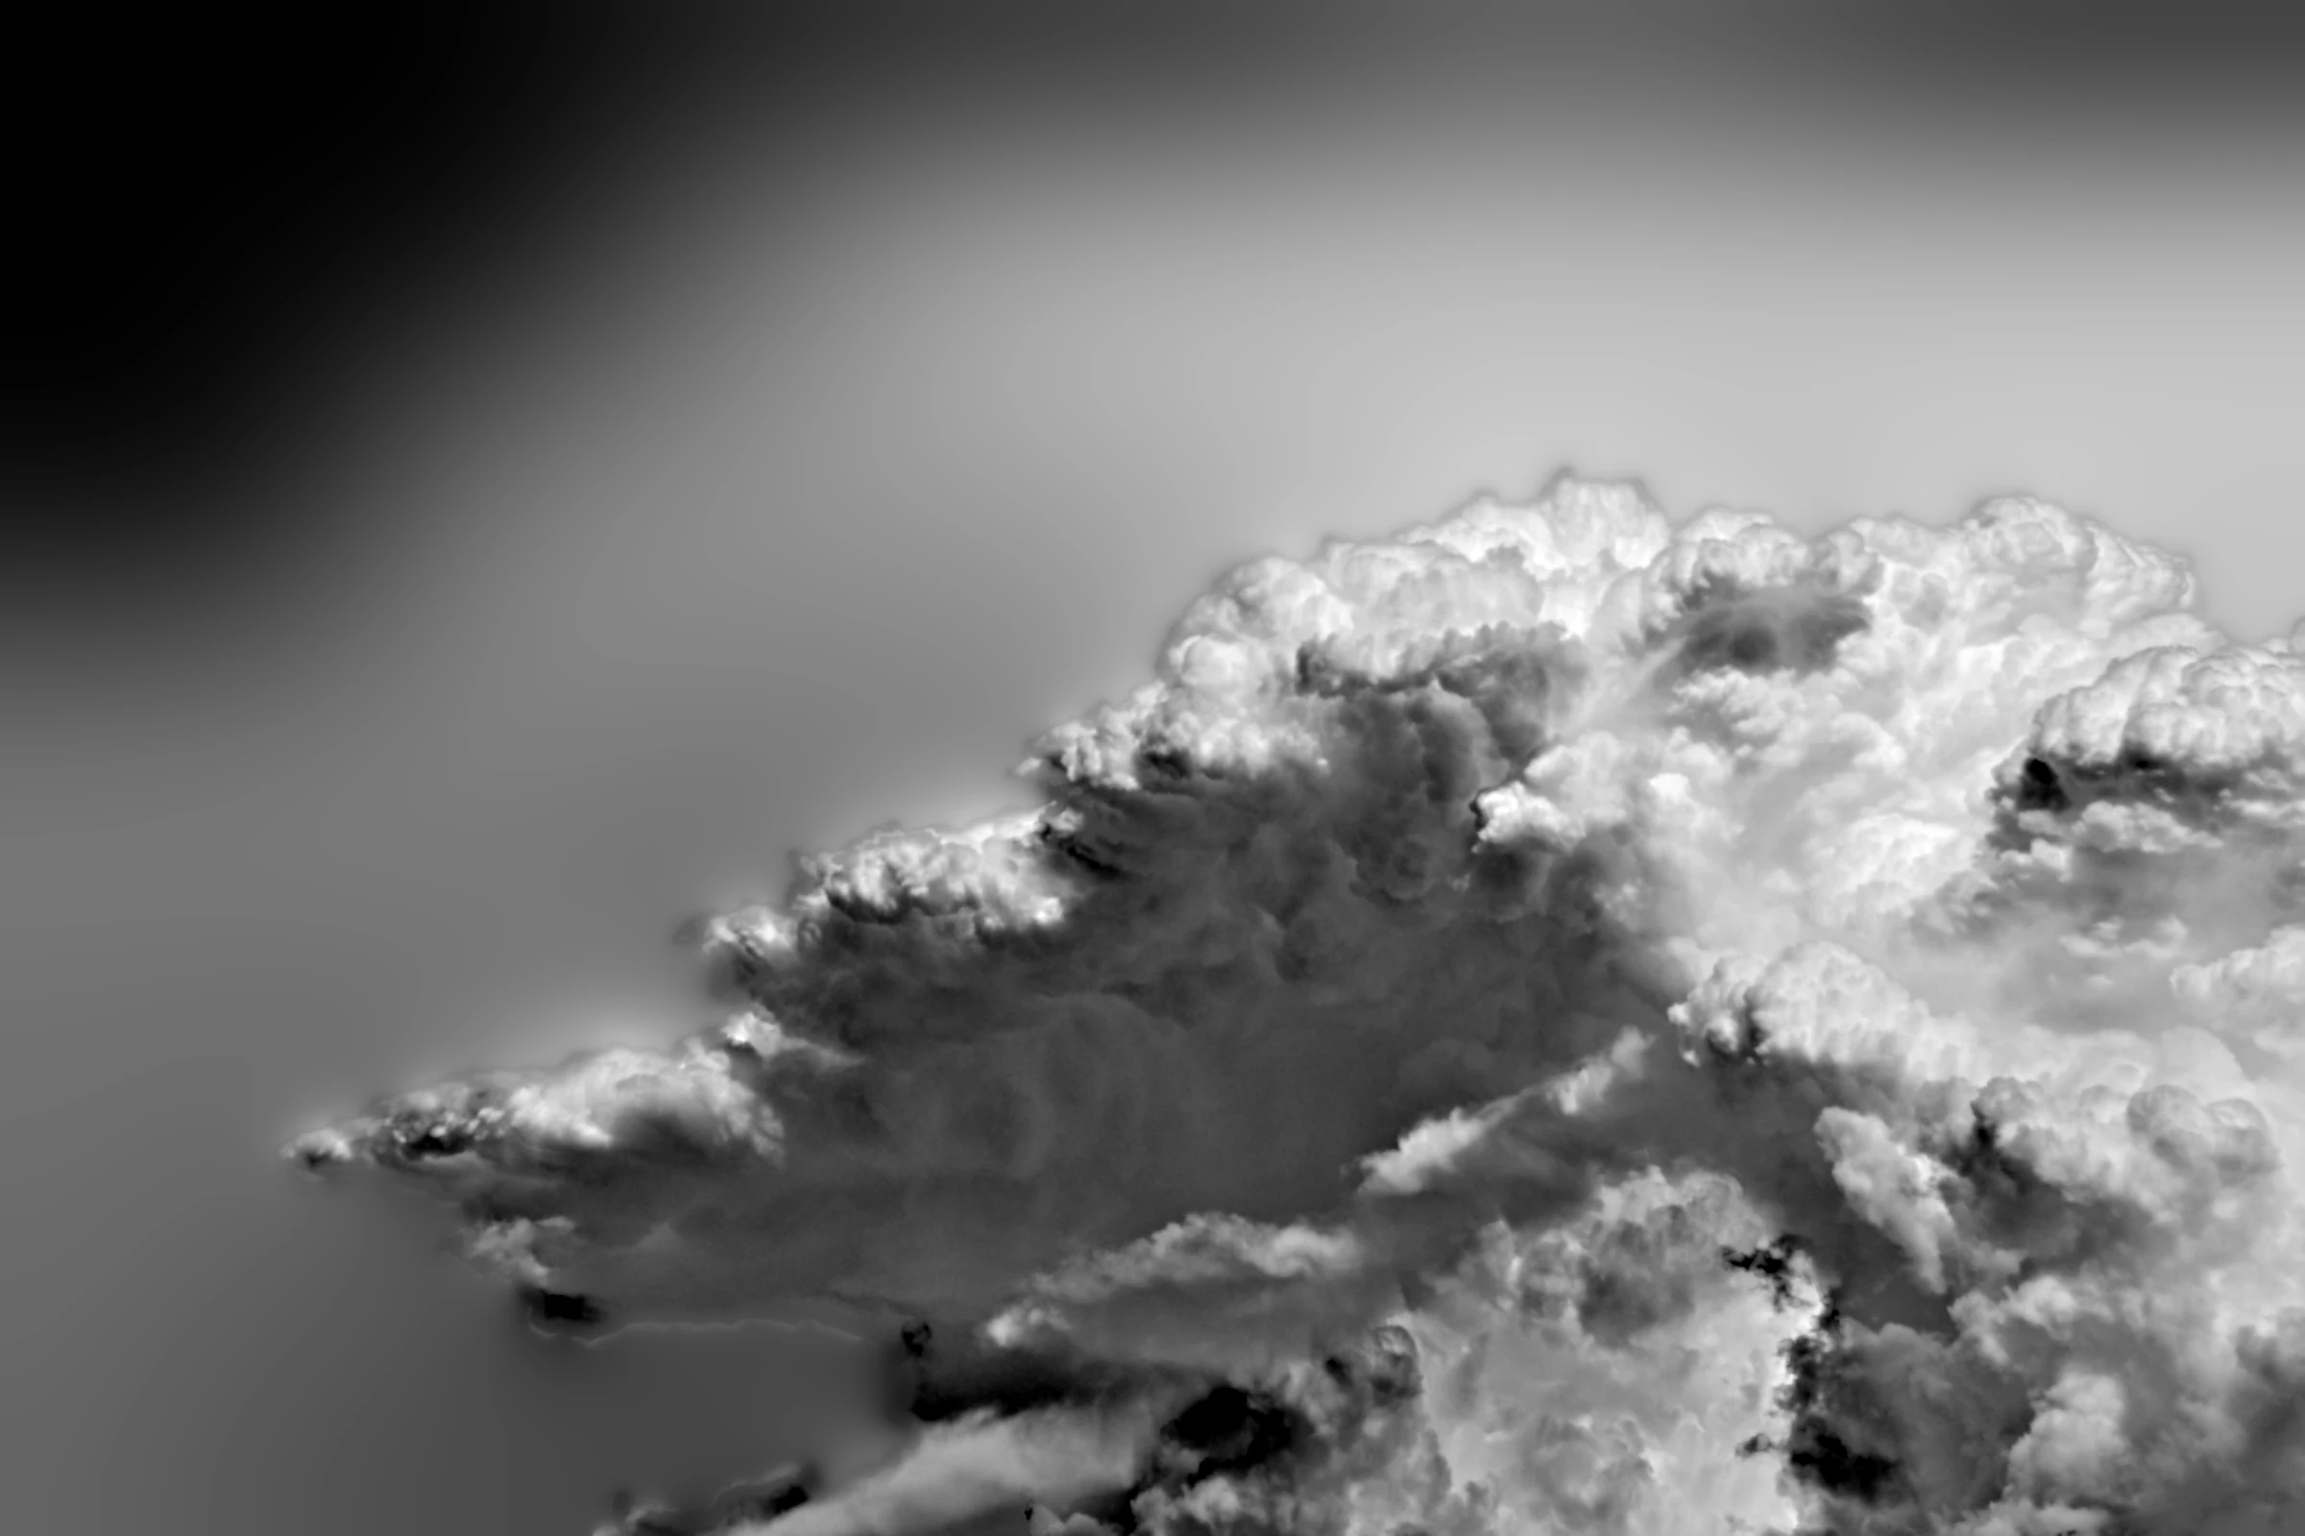
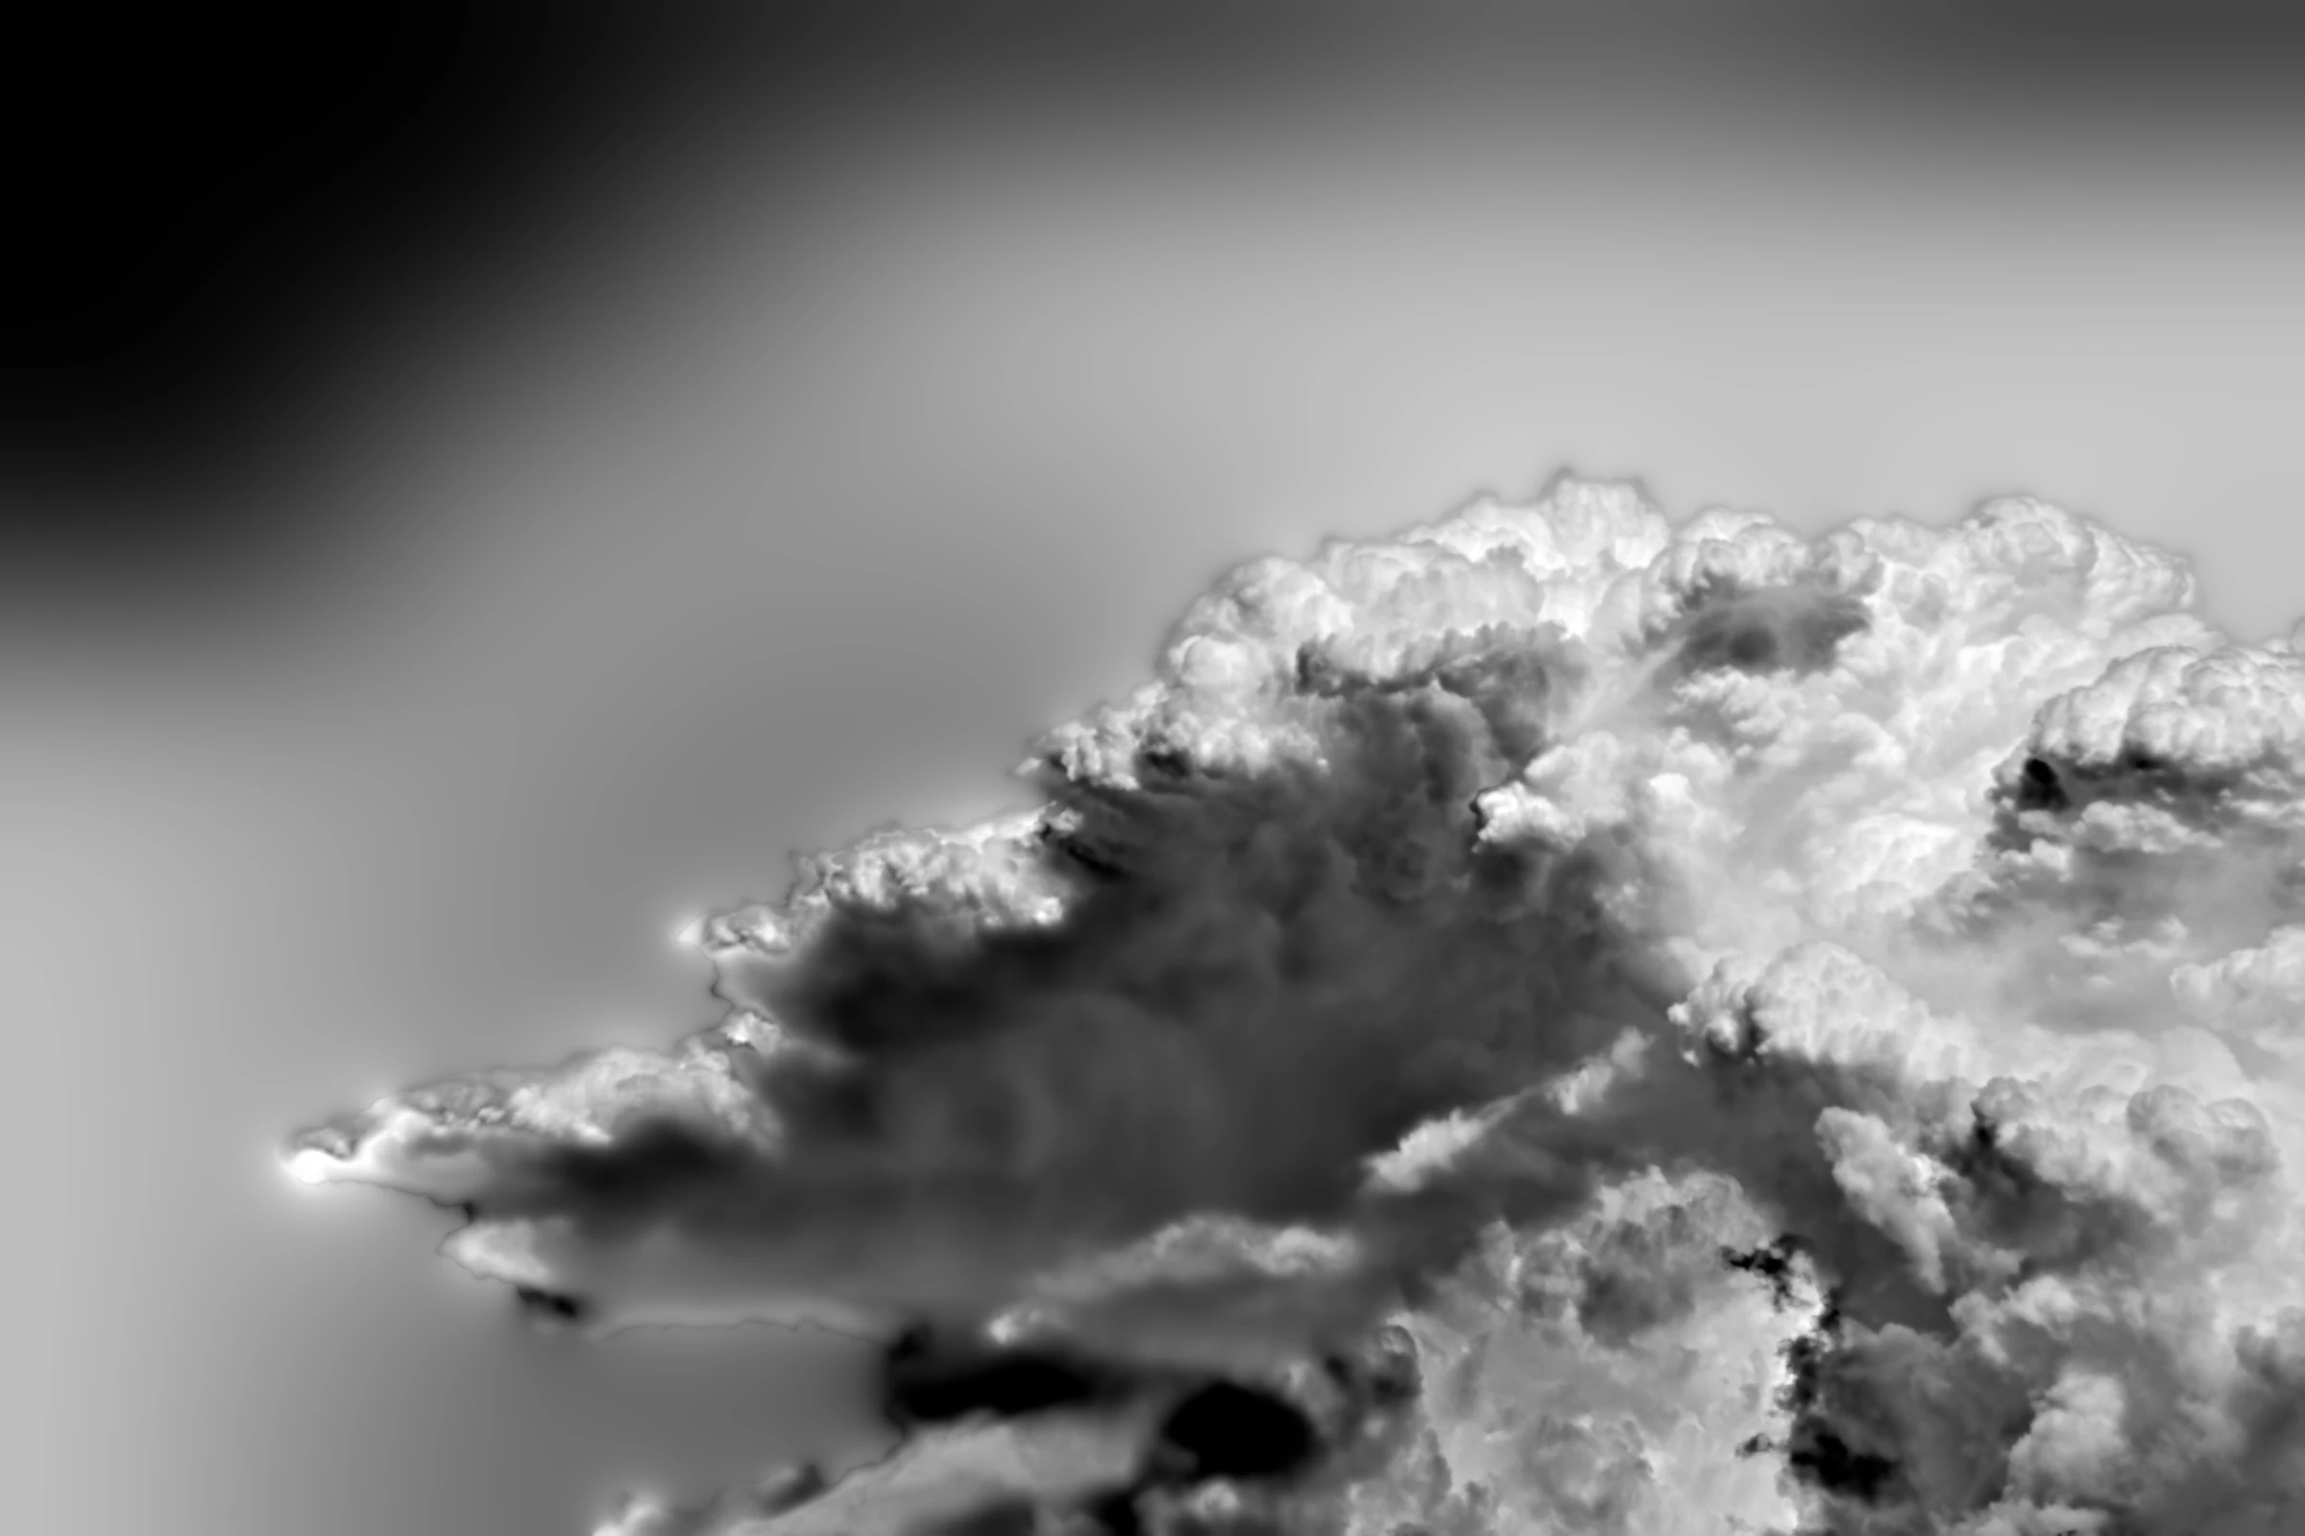
Lab: climb denchuka round 1
Claude-Session: https://claude.ai/code/session_01RqENhngNCzDFmJWDZueXGV

diff --git a/src/app/lab/denchuka/denchukaEngine.js b/src/app/lab/denchuka/denchukaEngine.js
@@ -38,8 +38,9 @@ import { createFilm, FILM_PRESETS } from "../_kit/film";
 // in front), to a summer cobalt that deepens with elevation (sky.png G: how far
 // up the sky each pixel looks, from the camera), with skylight-blue shade and
 // warm sunlit tops on the cloud; the film then adds only its optics: a thin
-// diffusion and a warm halation ring keyed on luminance (GLOW), the ring the
-// only glow round the cumulus's edge, then its curve. The shaft, hardware and
+// diffusion and a warm halation ring keyed on luminance (GLOW), laid in the
+// sky's own hue where it lands on the open cobalt round the cumulus, then its
+// curve. The shaft, hardware and
 // wires are graded as their own element (solidGrade): the concrete stands in
 // the same sun as the cloud, its lit flank a warm grey, its shade side the
 // skylight blue of the cloud's own shade, a bright rim where the sun grazes
@@ -91,7 +92,7 @@ const STREAK_SAMPLES = 14;
 // so the concrete takes a thin warm ring and no white glow; cloudDiff,
 // cloudRing: the same two off the cumulus. Its spread white light on the
 // cobalt reads as a pale matte fringe round the tower, so it is kept low, and
-// the glow at its edge is the warm ring.
+// what lands on the open sky takes the sky's hue (GLOW: SKY_LIT).
 const OPTIC = { diffusion: 0.2, halation: 0.75, halationThin: 0.05, halationColor: [1, 0.66, 0.32], solid: [0.05, 0.3], cloudRing: 0.55, cloudDiff: 0.3 };
 
 // The pole's rebuilt top meets its clean run at plate row SEAM; the run below
@@ -234,16 +235,23 @@ vec3 cloudGrade(vec3 c, float zen) {
 // The cumulus's edge, in the air (cloud.py: the edge). Its coverage (sky.png
 // B) falls off over ~10-14 plate px, reaching into its silhouette, and what
 // is left of the cloud in that falloff is thin cloud lit by the same air as
-// the cobalt round it: it takes the sky's hue, and loses its own contrast and
-// saturation toward the sky's, so the edge passes from cloud through
-// sky-tinted haze into the blue, never as a pale rim of the cloud's own
-// skylight shade on the cobalt (a cut-out sticker's fringe).
-vec3 cloudAir(vec3 c, vec3 sky, float b) {
-  float air = 1.0 - smoothstep(0.0, 0.9, b);
+// the cobalt round it. Laid over the cobalt as a straight mix of the two, the
+// falloff passed through their average, a darker, greyed blue (as dark as the
+// cobalt, half its saturation): a navy rim all along the crowns, the cloud
+// cut out and pasted. So the falloff is built in the sky's own hue instead,
+// its light leading its colour: as the coverage rises the edge first
+// brightens (value, most of the way by b ~0.6) in the local sky's hue at
+// nearly the sky's saturation, and only then pales toward the cloud's own
+// colour, which takes over from b ~0.5 to 1. The edge is lit air, a lighter
+// blue of the sky round it brightening into the crown, never darker or
+// greyer than either side of it.
+vec3 cloudEdge(vec3 c, vec3 sky, float b) {
   vec3 ch = rgb2hsv(c);
   vec3 sh = rgb2hsv(sky);
-  vec3 thin = hsv2rgb(vec3(sh.x, mix(ch.y, sh.y, 0.5), mix(ch.z, sh.z, 0.35)));
-  return mix(c, thin, air * 0.85);
+  float lightUp = smoothstep(0.0, 0.8, b);
+  float pale = smoothstep(0.15, 1.0, b);
+  vec3 air = hsv2rgb(vec3(sh.x, mix(sh.y, ch.y, pale), mix(sh.z, ch.z, lightUp)));
+  return mix(air, c, smoothstep(0.5, 1.0, b));
 }
 // The concrete, in the same light as the cumulus. The scan has the shaft and
 // its cans in sun from the right (their lit flanks ~0.66-0.90, the shade
@@ -443,7 +451,7 @@ void main() {
   // whose upper right the pole's verticals run up into as well
   float deep = clamp(0.73 * sk.g + 0.5 * (1.0 - pp.y / uPlate.y), 0.0, 1.0);
   vec3 graded = skyGrade(behind, deep);
-  if (sk.b > 0.002) graded = mix(graded, cloudAir(cloudGrade(cloudTex(pp), sk.g), graded, sk.b), sk.b);
+  if (sk.b > 0.002) graded = cloudEdge(cloudGrade(cloudTex(pp), sk.g), graded, sk.b);
   float skyA;
   if (hwUp || shUp) {
     // Over the hardware and the shaft the pixel is built again from its
@@ -688,7 +696,7 @@ void main() {
 //   in front) turns its spread light down (uCloudDiff) and its ring partly
 //   (uCloudRing): white light spread off the tower's edge onto the cobalt
 //   reads as a pale matte fringe, so what is left round it is mostly the
-//   warm ring.
+//   ring, and on the open sky both take the sky's own hue (SKY_LIT).
 const LIN = `
 vec3 toLin(vec3 c) {
   c = clamp(c, 0.0, 1.0);
@@ -764,6 +772,8 @@ vec3 toSrgb(vec3 c) {
   c = clamp(c, 0.0, 1.0);
   return mix(c * 12.92, 1.055 * pow(c, vec3(1.0 / 2.4)) - 0.055, step(0.0031308, c));
 }
+// how much of the optics' light on the open sky takes the sky's hue
+const float SKY_LIT = 0.9;
 float lumAt(vec2 uv) {
   return dot(toLin(texture(uTex, uv).rgb), vec3(0.2126, 0.7152, 0.0722));
 }
@@ -783,12 +793,24 @@ void main() {
     hair = max(hair, min(lumAt(vUv + o), lumAt(vUv - o)) - y);
   }
   float keep = 1.0 - smoothstep(0.04, 0.25, hair);
-  float sx = shares(t.a).x;
+  vec2 sh = shares(t.a);
+  float sx = sh.x;
+  // What the optics lay on the open sky round the cumulus (its spread light
+  // and its ring) is light in the sky's own air: added as the crowns' white
+  // and the sun's orange, it greyed the cobalt beside every crown (orange on
+  // blue is grey), a dull slate-navy band between the deep blue and the white
+  // that cut the tower out. On the open sky it is laid in the sky's own hue
+  // instead (the pixel's colour at unit luminance, at the added light's
+  // luminance), so the cobalt brightens into the crown and the edge stays the
+  // sky's. Inside the cloud's coverage, and on anything solid, it keeps its
+  // own colour.
+  float onSky = sx * (1.0 - smoothstep(0.0, 0.6, sh.y)) * SKY_LIT;
+  vec3 tone = min(l / max(y, 1e-4), vec3(4.0));
   // diffusion: the highlights' own light, spread; it lands off them, so the
   // billows inside a crown keep their shadows, and hardly at all on the
   // concrete, whose edge against the crowns stays cut (a white veil there
   // reads as a halo round a pasted layer)
-  l += g.rgb * uDiff * (1.0 - self) * mix(1.0, keep, 0.6) * mix(0.12, 1.0, sx);
+  l += mix(g.rgb, tone * dot(g.rgb, vec3(0.2126, 0.7152, 0.0722)), onSky) * uDiff * (1.0 - self) * mix(1.0, keep, 0.6) * mix(0.12, 1.0, sx);
   // halation: the ring outside the bright edge, in the sun's warm colour, on
   // what is darker than the cloud's shade (the cobalt), never filling the
   // cloud's own folds. On the shaft, the hardware and the wires (not sky) the
@@ -810,7 +832,7 @@ void main() {
     }
     thin *= (1.0 - sx) * (1.0 - smoothstep(0.1, 0.35, y));
   }
-  l += uHalC * (wide * uHal + thin * uHalThin);
+  l += mix(uHalC, tone * dot(uHalC, vec3(0.2126, 0.7152, 0.0722)), onSky) * wide * uHal + uHalC * thin * uHalThin;
   outColor = vec4(toSrgb(l), 1.0);
 }`;
 
@@ -1340,8 +1362,8 @@ export async function createDenchuka(host, { embedded = false } = {}) {
           // brightest crowns: anything more lays a thick orange bloom over the
           // dark hardware in front of them and warms the shaft's edge, a second
           // warm accent on what should be the frame's one cool dark anchor.
-          // The ring that shows is the optics' own (GLOW): warm off the
-          // cumulus into the cobalt, a texel or two on the concrete.
+          // The ring that shows is the optics' own (GLOW): off the cumulus
+          // into the cobalt in the sky's hue, a warm texel or two on the concrete.
           halation: 0.06,
           halationThreshold: 0.92,
           halationColor: [1, 0.52, 0.24],

diff --git a/tools/depth/bakes/denchuka/cloud.py b/tools/depth/bakes/denchuka/cloud.py
@@ -48,7 +48,7 @@
 # then feathered from its signed distance over ~10-16 plate px reaching into
 # the silhouette (~30 on the anvil, its thin outflow), its light losing its
 # contrast toward it, and the comp turns the falloff to the sky's hue (the
-# edge, below; COMP cloudAir). The anvil's shelf, a flat shade with a hard
+# edge, below; COMP cloudEdge). The anvil's shelf, a flat shade with a hard
 # base under the anvil's lobe, dissolves up from its base into the blue (the
 # anvil, below). A small pocket of the HDRI's sky caught in the tower's foot
 # is filled (HOLE_MAX), even where it runs out of the frame.
@@ -409,6 +409,47 @@ print("light t: " + "  ".join(f"p{p} {np.percentile(t[a > 0.9], p):.3f}" for p i
 sm = lambda e0, e1, v: np.clip((v - e0) / (e1 - e0), 0, 1) ** 2 * (3 - 2 * np.clip((v - e0) / (e1 - e0), 0, 1))
 fill = lambda v, w: push_pull(np.repeat(v.astype(np.float32)[..., None], 3, -1), w.astype(np.float32))[..., 0]
 
+# ---------------------------------------------------------------- the shelf
+# The tower's flat left shelf, under the anvil's lit lobes, is the HDRI's
+# faintest cloud: a near-uniform shade whose own drawing is a few broad,
+# rounded swells. Run through the relief above (its fine detail lifted
+# ~3 times in the shade, out of the unmixed colour, whose thin sky-blue
+# coverage there amplifies the HDRI's sensor grain) it came out as fine
+# streaks and grain over a milky wash: smeared, not a volume. So its texture
+# is taken again from the source radiance itself (the HDRI's luminance Y,
+# not unmixed; the shelf is solid cloud), in three bands, its finest grain
+# (under SHELF_S px) left out and its swells (SHELF_BANDS: 2-8, 8-24 and
+# 24-80 px) drawn up, and laid on the shelf's own light at the old tone (t's
+# wide local mean over the shade alone, so the lit lobes beside it lend it no
+# halo). Only the shade of the shelf (SHELF_REG: plate x, y where it fades
+# out and in); the lit lobes above it keep their light.
+SHELF_REG = ((1300.0, 1650.0), (850.0, 1000.0))
+SHELF_S, SHELF_GAIN = 2.0, (1.0, 3.0, 2.0)
+SHELF_DIM = (0.38, 0.55)  # t: the shade the retexture takes, out to the lit lobes
+t_relief = t  # (the anvil's dissolve, below, keeps reading the relief's light: the shelf's silhouette is not moved)
+lY = np.log(np.maximum(Y / ref, 1e-4)).astype(np.float32)
+lyb = [cv2.GaussianBlur(lY, (0, 0), s) for s in (SHELF_S, 8, 24, 80)]
+tex = sum(g * (lyb[i] - lyb[i + 1]) for i, g in enumerate(SHELF_GAIN))
+# (t is log radiance over its range, log(1 / xlo) nats: the texture in t's units)
+tex = tex / np.log(1 / xlo)
+dimw = (1 - sm(*SHELF_DIM, cv2.GaussianBlur(t, (0, 0), 8))).astype(np.float32)
+tmean = cv2.GaussianBlur(t * dimw, (0, 0), 24) / np.maximum(cv2.GaussianBlur(dimw, (0, 0), 24), 1e-3)
+shelf = ((1 - sm(*SHELF_REG[0], xs)) * sm(*SHELF_REG[1], ys) * dimw).astype(np.float32)
+t = (t + (np.clip(tmean + tex, 0, 1) - t) * shelf).astype(np.float32)
+print(f"shelf: {np.mean(shelf > 0.5) * 100:.2f}% of the frame retextured from the radiance")
+
+# ---------------------------------------------------------------- the pockets
+# The deep shade pockets carry the relief's lift at its strongest, and with
+# it the HDRI's grain: at 1:1 they were blotchy, mottled blue patches. In the
+# shade (POCKET: t's local level, fading out by the lit billows) the light is
+# smoothed edge-preservingly (a bilateral filter, POCKET_S px, a range of
+# POCKET_R in t), so a pocket is one soft fall of skylight and the edges of the
+# billows round it stay drawn.
+POCKET, POCKET_S, POCKET_R = (0.28, 0.48), 3.0, 0.08
+tbl = cv2.GaussianBlur(cv2.bilateralFilter(t, -1, POCKET_R, POCKET_S), (0, 0), 0.8)
+pocket = (1 - sm(*POCKET, cv2.GaussianBlur(t, (0, 0), 5))).astype(np.float32)
+t = (t + (tbl - t) * pocket).astype(np.float32)
+
 # ---------------------------------------------------------------- the anvil
 # The tower's lower-left flank, its anvil shelf and the lobes under it, is
 # the HDRI's flattest cloud: a uniform shade with a hard, flat base on the
@@ -442,8 +483,8 @@ upf = cv2.GaussianBlur(sm(0.1, 0.5, gy / np.maximum(np.hypot(gx, gy), 1e-5)).ast
 lut = np.zeros(lab_.max() + 1, np.float32)
 lut[lab_[ey, ex]] = 1 - upf[ey, ex]
 facing = cv2.GaussianBlur(lut[lab_], (0, 0), 12)
-tl = cv2.GaussianBlur(t, (0, 0), 14)
-lift = np.clip(t - tl, -0.15, 0.3)
+tl = cv2.GaussianBlur(t_relief, (0, 0), 14)
+lift = np.clip(t_relief - tl, -0.15, 0.3)
 diss = sm(0.0, DISS, np.maximum(sd, 0) + DISS_LIT * lift)
 basew = np.clip(facing * reg, 0, 1).astype(np.float32)
 keep_a = (1 - basew * (1 - diss)).astype(np.float32)
@@ -467,7 +508,7 @@ print(f"anvil: {np.mean((keep_a < 0.7) & (a_shape > 0.5)) * 100:.2f}% of the fra
 # - Its light loses its contrast toward the edge: within HAZE_D px of it, it
 #   is pulled (HAZE at the edge) toward its own wide local mean, so no
 #   billow's light or shade runs out to the silhouette; outside the contour
-#   it takes the margin's own value. The live comp (COMP cloudAir) then turns
+#   it takes the margin's own value. The live comp (COMP cloudEdge) then turns
 #   what is left of it there to the sky's hue at the coverage's falloff.
 FEATHER_OUT, FEATHER_IN = 3.0, (10.0, 16.0)  # plate px: up/side-facing edge, underside
 ANVIL_X, ANVIL_OUT, ANVIL_IN = (900.0, 1350.0), 8.0, 30.0
